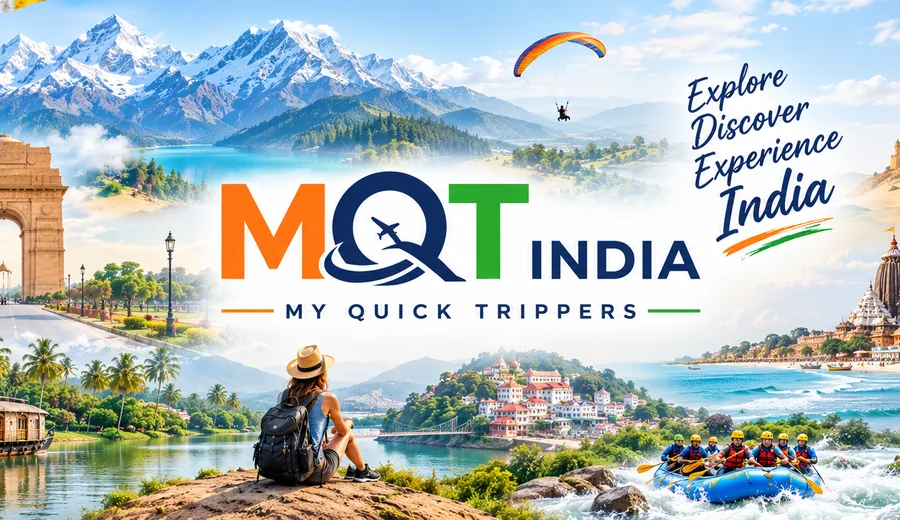
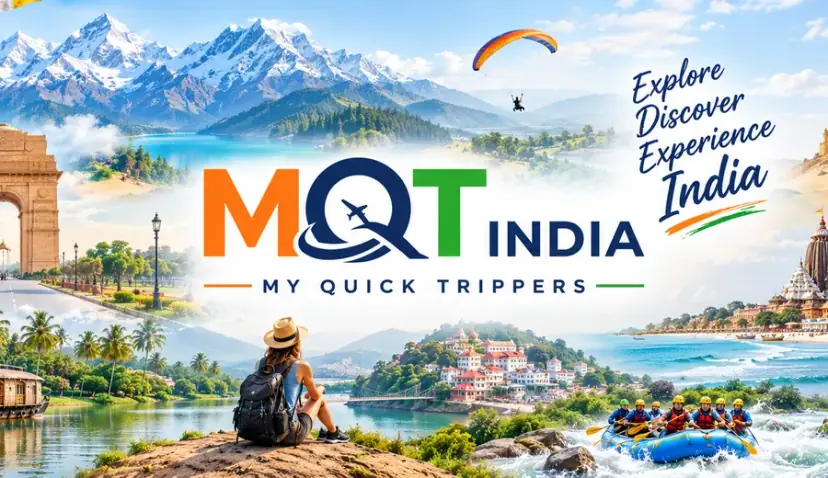
perf: physically resize mobile hero 118KB->60KB, fix next.config.ts syntax, add quality 55

Changed region(s): [[0.7246, 0.8201, 0.9058, 0.9372], [0.6039, 0.0586, 0.6643, 0.0879], [0.0, 0.0, 0.0302, 0.0293]]

diff --git a/next.config.ts b/next.config.ts
@@ -25,7 +25,7 @@ const nextConfig: NextConfig = {
     // encoding, which was making freshly visited catalogue images feel late.
     // WebP remains broadly supported and is cached for 30 days below.
     formats: ["image/webp"],
-    qualities: [60, 65, 68, 75],
+    qualities: [55, 60, 65, 68, 75],
     minimumCacheTTL: 60 * 60 * 24 * 30, // 30 days
   },
   typescript: {
@@ -34,16 +34,6 @@ const nextConfig: NextConfig = {
   // HTTP headers for caching & security
   async headers() {
     return [
-      {
-        // Preload LCP hero image on homepage — reduces LCP from 4.9s
-        source: '/',
-        headers: [
-          {
-            key: 'Link',
-            value: '</images/home/mqt-india-hero.webp>; rel=preload; as=image; fetchpriority=high',
-          },
-        ],
-      },
       {
         // Cache static assets aggressively
         source: "/images/:path*",

diff --git a/src/app/page.tsx b/src/app/page.tsx
@@ -110,14 +110,7 @@ export default function Home() {
            <h1 className="sr-only">Explore India with My Quick Trippers</h1>
            <div className="home-brand-hero__media">
              <picture>
-               <source
-                  media="(max-width: 767px)"
-                  srcSet={
-                    "/_next/image?url=%2Fimages%2Fhome%2Fmqt-india-hero-mobile.webp&w=480&q=75 480w, " +
-                    "/_next/image?url=%2Fimages%2Fhome%2Fmqt-india-hero-mobile.webp&w=640&q=75 640w"
-                  }
-                  sizes="100vw"
-                />
+               <source media="(max-width: 767px)" srcSet="/images/home/mqt-india-hero-mobile.webp" />
                <img
                  src="/images/home/mqt-india-hero.webp"
                  alt="Explore India with My Quick Trippers: mountains, heritage, wildlife, beaches and adventure journeys"
